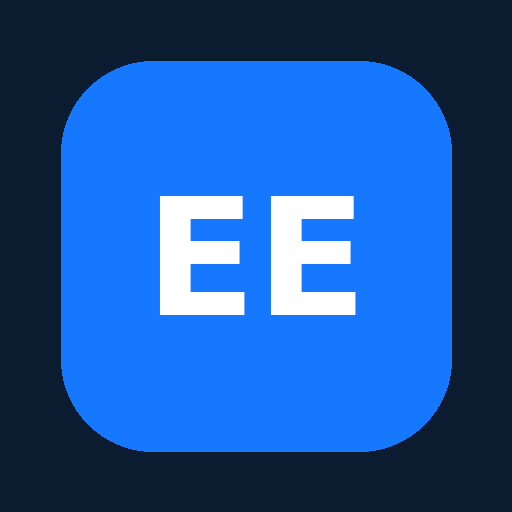
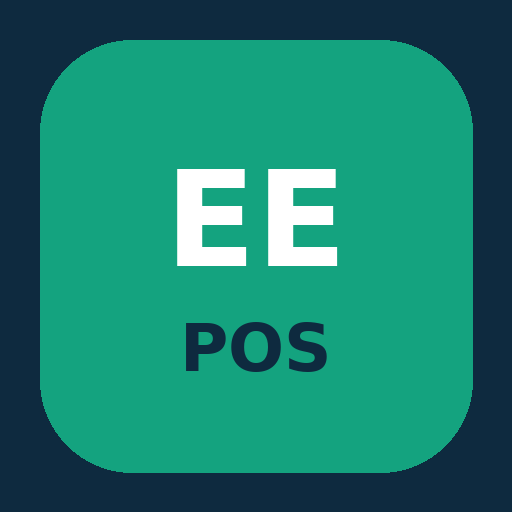
Add files via upload

diff --git a/index.html b/index.html
@@ -1,236 +1,173 @@
 <!DOCTYPE html>
-<html lang="en">
+<html lang="sw">
 <head>
 <meta charset="UTF-8">
-<meta name="viewport" content="width=device-width, initial-scale=1.0">
-<title>E.E.MSANGO COMPANY LIMITED — Business System</title>
+<meta name="viewport" content="width=device-width, initial-scale=1, viewport-fit=cover">
+<title>E.E.MSANGO POS — Mauzo</title>
+<meta name="theme-color" content="#0e2a3f">
 <link rel="manifest" href="manifest.json">
 <link rel="icon" href="icon-192.png">
 <link rel="apple-touch-icon" href="icon-192.png">
-<meta name="theme-color" content="#0b1b30">
 <meta name="apple-mobile-web-app-capable" content="yes">
+<meta name="mobile-web-app-capable" content="yes">
+<meta name="apple-mobile-web-app-title" content="EE POS">
 <meta name="apple-mobile-web-app-status-bar-style" content="black-translucent">
-<meta name="apple-mobile-web-app-title" content="E.E.MSANGO">
-<script src="https://cdn.jsdelivr.net/npm/chart.js"></script>
+<link href="https://fonts.googleapis.com/css2?family=Manrope:wght@500;600;700;800&display=swap" rel="stylesheet">
 <style>
 :root{
-  --ink:#172033; --paper:#f3f6fa; --paper-alt:#eef2f7; --line:#dfe4ec;
-  --green:#08b66c; --rust:#e2632b; --amber:#e8a317; --amber-soft:#fff1d7;
-  --navy:#0b1b30; --blue:#1677ff;
+  --navy:#0e2a3f; --navy2:#16405c; --teal:#14a37f; --teal-d:#0e7f63; --amber:#f0a92e; --red:#d64545;
+  --bg:#eef2f5; --card:#ffffff; --ink:#15212b; --mute:#6c7a86; --line:#dde4ea; --chip:#e5edf2;
+  box-sizing:border-box; padding-top:env(safe-area-inset-top,0px); padding-bottom:env(safe-area-inset-bottom,0px);
 }
-*{margin:0;padding:0;box-sizing:border-box;font-family:'Segoe UI',Arial,Helvetica,sans-serif;}
-body{background:var(--paper);color:var(--ink);}
-button{cursor:pointer;font-family:inherit;}
-input{font-family:inherit;}
-
-/* LOGIN */
-.login-wrap{min-height:100vh;display:flex;align-items:center;justify-content:center;background:var(--navy);padding:20px;}
-.login-card{background:#fff;border-radius:14px;padding:32px 28px;max-width:340px;width:100%;text-align:center;display:flex;flex-direction:column;gap:10px;}
-.login-mark{width:52px;height:52px;display:flex;align-items:center;justify-content:center;margin:0 auto 6px;}
-.login-card h1{font-size:19px;}
-.login-sub{font-size:12.5px;color:#718096;margin-bottom:6px;}
-.login-error{color:#dc2636;font-size:12px;}
-.field{width:100%;padding:9px 11px;border:1px solid var(--line);border-radius:7px;font-size:13.5px;background:#fff;color:var(--ink);}
-.field:focus{outline:2px solid var(--blue);outline-offset:1px;}
-.field-sm{padding:7px 9px;font-size:12.5px;}
-.btn{border:none;border-radius:7px;font-size:13.5px;font-weight:600;padding:9px 14px;display:inline-flex;align-items:center;gap:6px;}
-.btn-primary{background:var(--navy);color:#fff;}
-.btn-primary:hover{background:#14284a;}
-.btn-ghost{background:none;color:#6b7280;}
-.btn-ghost:hover{background:var(--paper-alt);}
-.btn-sm{padding:7px 12px;font-size:12.5px;}
-.btn-block{width:100%;justify-content:center;}
-
-/* SHELL */
-.shell{display:flex;min-height:100vh;}
-.sidebar{width:220px;background:var(--navy);color:#fff;padding:22px 16px;display:flex;flex-direction:column;position:fixed;top:0;left:0;bottom:0;}
-.logo{display:flex;align-items:center;gap:12px;margin-bottom:30px;}
-.logo-mark{width:40px;height:40px;display:flex;align-items:center;justify-content:center;}
-.logo h2{font-size:15px;}
-.logo small{color:#9eabc0;font-size:11px;}
-.menu{list-style:none;flex:1;}
-.menu li{display:flex;align-items:center;gap:10px;padding:12px;margin:4px 0;border-radius:8px;cursor:pointer;color:#d5dce7;font-size:13.5px;position:relative;}
-.menu li:hover,.menu li.active{background:var(--blue);color:#fff;}
-.menu-badge{margin-left:auto;background:#ed3948;color:#fff;font-size:10px;padding:1px 6px;border-radius:20px;}
-.sidebar-bottom{color:#8997ab;font-size:11px;line-height:1.5;}
-.main{flex:1;margin-left:220px;min-width:0;}
-.topbar{height:68px;background:#0d2038;color:#fff;display:flex;align-items:center;justify-content:space-between;padding:0 22px;position:sticky;top:0;z-index:10;}
-.search{display:flex;align-items:center;background:#203650;border-radius:22px;padding:9px 16px;width:300px;color:#b9c5d5;font-size:13px;}
-.search input{background:none;border:none;outline:none;color:#fff;font-size:13px;width:100%;}
-.search input::placeholder{color:#8ea0ba;}
-.profile{display:flex;align-items:center;gap:12px;font-size:12.5px;}
-.bell-wrap{position:relative;background:none;border:none;color:#fff;cursor:pointer;font-size:18px;}
-.bell-dot{position:absolute;top:-6px;right:-8px;background:#ed3948;color:#fff;font-size:9px;padding:1px 5px;border-radius:20px;}
-.avatar{width:34px;height:34px;border-radius:50%;background:#e9eef5;}
-.logout-btn{display:flex;align-items:center;gap:5px;background:rgba(255,255,255,.08);border:1px solid rgba(255,255,255,.15);color:#fff;padding:7px 12px;border-radius:7px;font-size:12px;font-weight:600;margin-left:6px;}
-.logout-btn:hover{background:rgba(255,255,255,.16);}
-.content{padding:22px;}
-.page-header{display:flex;justify-content:space-between;align-items:center;margin-bottom:18px;flex-wrap:wrap;gap:10px;}
-.page-header h1{font-size:24px;}
-.page-header p{color:#718096;margin-top:3px;font-size:13px;}
-.date{background:#fff;padding:9px 14px;border-radius:8px;box-shadow:0 2px 8px #dce2ea;font-size:12.5px;}
-
-/* CARDS */
-.cards{display:grid;grid-template-columns:repeat(6,1fr);gap:14px;}
-@media(max-width:1100px){.cards{grid-template-columns:repeat(3,1fr);}}
-@media(max-width:700px){.cards{grid-template-columns:1fr 1fr;}}
-.stat-card{color:#fff;padding:18px;border-radius:10px;min-height:120px;display:flex;flex-direction:column;justify-content:space-between;}
-.stat-card h4{font-size:12.5px;font-weight:600;opacity:.9;}
-.stat-card h2{font-size:20px;margin:8px 0 4px;}
-.stat-card p{font-size:11px;opacity:.85;}
-.blue{background:var(--blue);} .green{background:var(--green);} .purple{background:#7c45e8;}
-.orange{background:var(--rust);} .red{background:#ed3948;} .cyan{background:#119ebd;}
-
-/* reminders */
-.reminder-bar{background:var(--amber-soft);border:1px solid #f0d599;border-radius:10px;padding:14px 16px;margin:18px 0;}
-.reminder-title{display:flex;align-items:center;gap:7px;font-weight:700;color:#b8862f;font-size:14px;margin-bottom:8px;}
-.reminder-group{display:flex;flex-wrap:wrap;gap:6px;align-items:center;margin-bottom:6px;}
-.reminder-group-label{font-size:12.5px;font-weight:600;margin-right:2px;}
-.reminder-group-label.green{color:var(--green);} .reminder-group-label.rust{color:var(--rust);}
-.reminder-chip{font-size:12px;padding:3px 9px;border-radius:20px;background:#fff;border:1px solid var(--line);}
-.reminder-chip.overdue{border-color:var(--rust);color:var(--rust);}
-.reminder-chip.today{border-color:#b8862f;color:#b8862f;}
-
-/* panels/charts */
-.lower{display:grid;grid-template-columns:1.2fr 1fr;gap:16px;margin-top:16px;}
-@media(max-width:900px){.lower{grid-template-columns:1fr;}}
-.panel{background:#fff;padding:18px;border-radius:10px;box-shadow:0 2px 8px #e1e6ed;}
-.panel h3{font-size:15px;margin-bottom:14px;}
-.chart-container{height:230px;position:relative;}
-.recent-table{width:100%;border-collapse:collapse;}
-.recent-table td{padding:10px 6px;border-top:1px solid #edf0f4;font-size:12.5px;}
-.rt-amount{font-weight:600;text-align:right;} .rt-date{color:#8290a4;font-size:11.5px;text-align:right;}
-.badge{padding:3px 9px;border-radius:15px;font-size:10.5px;font-weight:600;}
-.badge.pending{background:#fff1d7;color:#e28b00;} .badge.paid{background:#dff8e9;color:#0b9c55;}
-
-/* alerts page */
-.alert{display:flex;align-items:center;gap:12px;padding:12px 4px;border-bottom:1px solid #edf0f4;}
-.alert:last-child{border-bottom:none;}
-.alert-icon{width:34px;height:34px;border-radius:50%;display:flex;align-items:center;justify-content:center;background:#edf2f7;color:#65748b;flex-shrink:0;font-size:16px;}
-.alert-icon.overdue{background:#ffe0e3;color:#dc2636;} .alert-icon.today{background:var(--amber-soft);color:#b8862f;}
-.alert-body{flex:1;min-width:0;} .alert-body strong{font-size:13px;display:block;}
-.alert-body small{display:block;color:#8290a4;margin-top:3px;}
-.alert-dir{flex-shrink:0;font-size:18px;} .alert-dir.green{color:var(--green);} .alert-dir.rust{color:var(--rust);}
-
-.rank-row{display:flex;justify-content:space-between;padding:9px 4px;border-bottom:1px solid #edf0f4;font-size:13px;}
-.rank-row:last-child{border-bottom:none;}
-.rank-amt{font-weight:700;} .rank-amt.green{color:var(--green);} .rank-amt.rust{color:var(--rust);}
-
-/* users */
-.user-list{display:flex;flex-direction:column;gap:8px;}
-.user-row{display:flex;justify-content:space-between;align-items:center;padding:10px 12px;background:var(--paper-alt);border-radius:8px;}
-.user-row-main{display:flex;flex-direction:column;gap:2px;}
-.user-name{font-size:13.5px;font-weight:600;} .user-detail{font-size:11.5px;color:#8290a4;}
-.settings-panel{max-width:380px;display:flex;flex-direction:column;gap:10px;}
-.settings-msg{font-size:12.5px;} .settings-msg.ok{color:#0b9c55;} .settings-msg.err{color:#dc2636;}
-
-/* ledger columns */
-.columns{display:grid;grid-template-columns:1fr 1fr;gap:18px;}
-.columns.single{grid-template-columns:1fr;max-width:none;width:100%;}
-/* Debtors / Creditors: cards fill the whole screen like the Sales page */
-.card-grid{display:grid;grid-template-columns:repeat(auto-fill,minmax(300px,1fr));gap:10px;align-items:start;}
-.card-grid .card.expanded{grid-column:1/-1;}
-@media(max-width:680px){.card-grid{grid-template-columns:1fr;}}
-@media(max-width:680px){.columns{grid-template-columns:1fr;}}
-.column{background:#fff;border:1px solid var(--line);border-radius:12px;padding:18px;display:flex;flex-direction:column;}
-.column-header{display:flex;justify-content:space-between;align-items:flex-start;padding-bottom:14px;margin-bottom:14px;border-bottom:2px solid var(--line);}
-.column.green .column-header{border-bottom-color:var(--green);} .column.rust .column-header{border-bottom-color:var(--rust);}
-.column-header h2{font-size:17px;font-weight:700;} .column-sub{font-size:12.5px;color:#8290a4;margin-top:2px;}
-.column-total{text-align:right;} .column-total-label{display:block;font-size:11px;color:#8290a4;}
-.column-total-val{display:block;font-size:16px;font-weight:700;}
-.column.green .column-total-val{color:var(--green);} .column.rust .column-total-val{color:var(--rust);}
-.column-list{display:flex;flex-direction:column;gap:10px;min-height:40px;}
-.empty-note{color:#a3aebe;font-size:13px;text-align:center;padding:20px 0;}
-
-.card{border:1px solid var(--line);border-radius:10px;overflow:hidden;background:var(--paper);}
-.card.cleared{opacity:.6;}
-.card-head{width:100%;display:flex;justify-content:space-between;align-items:center;padding:11px 14px;background:none;border:none;text-align:left;color:inherit;}
-.card-head-main{display:flex;flex-direction:column;gap:3px;}
-.card-name{font-weight:600;font-size:14px;}
-.card-meta-row{display:flex;gap:8px;flex-wrap:wrap;align-items:center;}
-.card-phone{font-size:12px;color:#8290a4;}
-.due-badge{font-size:11px;padding:2px 7px;border-radius:20px;border:1px solid var(--line);}
-.due-badge.today{color:#b8862f;border-color:#b8862f;} .due-badge.overdue{color:var(--rust);border-color:var(--rust);}
-.card-head-right{display:flex;align-items:center;gap:8px;}
-.card-balance{font-weight:700;font-size:14px;}
-.card.green .card-balance{color:var(--green);} .card.rust .card-balance{color:var(--rust);}
-.card.cleared .card-balance{color:#8290a4;font-weight:600;font-size:12.5px;}
-.card-body{padding:0 14px 14px;border-top:1px solid var(--line);}
-.card-note{font-size:12.5px;color:#6b7280;margin-top:10px;font-style:italic;}
-.items-summary{margin:10px 0 6px;border:1px solid var(--line);border-radius:8px;overflow:hidden;}
-.items-summary-row{display:flex;justify-content:space-between;gap:8px;padding:6px 10px;font-size:12.5px;border-bottom:1px solid var(--line);background:#fff;}
-.items-summary-row:last-child{border-bottom:none;}
-.isr-detail{color:#8290a4;} .isr-total{font-weight:600;}
-.receipt-link-btn{display:flex;align-items:center;gap:5px;background:none;border:none;color:var(--green);font-size:12px;font-weight:600;padding:2px 0 8px;}
-.card-stats{display:flex;gap:16px;margin:12px 0;flex-wrap:wrap;}
-.stat-label{display:block;font-size:10.5px;color:#8290a4;} .stat-val{display:block;font-size:13.5px;font-weight:600;}
-.stat-val.strong{color:var(--rust);}
-.payment-history{display:flex;flex-direction:column;gap:4px;margin:10px 0;padding:8px 10px;background:var(--paper-alt);border-radius:6px;}
-.payment-row{display:flex;align-items:center;gap:6px;font-size:12px;color:#6b7280;}
-.payment-amt{margin-left:auto;color:var(--green);font-weight:600;}
-.pay-row{display:flex;gap:8px;margin-top:10px;}
-.archive-btn{display:flex;align-items:center;justify-content:center;gap:6px;width:100%;margin-top:10px;padding:8px;border:1px solid var(--line);border-radius:7px;background:var(--paper-alt);color:#6b7280;font-size:12.5px;font-weight:600;}
-.archive-btn:hover{background:#e5e9ef;color:var(--ink);}
-.history-toggle{margin-top:10px;display:flex;align-items:center;justify-content:center;gap:6px;background:none;border:none;color:#8290a4;font-size:12px;font-weight:600;padding:6px;width:100%;}
-.history-toggle:hover{color:var(--ink);}
-.history-list{display:flex;flex-direction:column;gap:6px;margin-top:6px;padding-top:8px;border-top:1px dashed var(--line);}
-.history-row{display:flex;justify-content:space-between;align-items:center;padding:7px 10px;background:var(--paper-alt);border-radius:7px;}
-.history-name{font-size:12.5px;font-weight:600;} .history-detail{font-size:11px;color:#8290a4;}
-.icon-btn{background:none;border:none;color:var(--rust);padding:8px;font-size:16px;min-width:32px;min-height:32px;display:inline-flex;align-items:center;justify-content:center;cursor:pointer;}
-.icon-btn.restore{color:var(--green);}
-.add-btn{margin-top:14px;display:flex;align-items:center;justify-content:center;gap:6px;padding:10px;border:1px dashed var(--line);border-radius:8px;background:none;color:#6b7280;font-size:13.5px;font-weight:600;width:100%;}
-.add-btn:hover{background:var(--paper-alt);color:var(--ink);}
-
-/* entry form */
-.entry-form{display:flex;flex-direction:column;gap:8px;padding:12px;border:1px dashed var(--line);border-radius:10px;background:#fff;}
-.mode-toggle{display:flex;gap:6px;margin-bottom:4px;}
-.mode-btn{flex:1;padding:7px;border-radius:7px;border:1px solid var(--line);background:var(--paper-alt);color:#6b7280;font-size:12.5px;font-weight:600;}
-.mode-btn.active{background:var(--navy);color:#fff;border-color:var(--navy);}
-.items-block{border:1px solid var(--line);border-radius:8px;padding:10px;background:var(--paper-alt);display:flex;flex-direction:column;gap:6px;}
-.discount-mode-toggle{display:flex;align-items:center;gap:6px;font-size:11.5px;color:#6b7280;margin-bottom:2px;}
-.chip-btn{padding:3px 9px;border-radius:20px;border:1px solid var(--line);background:#fff;font-size:11px;font-weight:600;color:#6b7280;}
-.chip-btn.active{background:var(--navy);color:#fff;border-color:var(--navy);}
-.item-row{display:grid;grid-template-columns:1.4fr .8fr .9fr .6fr .9fr auto;gap:6px;align-items:center;}
-.item-row-head{font-size:10.5px;color:#8290a4;padding:0 2px;}
-.item-line-total{font-size:12.5px;font-weight:600;text-align:right;}
-.add-row-btn{display:flex;align-items:center;gap:5px;align-self:flex-start;background:none;border:none;color:var(--green);font-size:12.5px;font-weight:600;padding:4px 0;}
-.grand-total-row{display:flex;justify-content:space-between;padding-top:6px;border-top:1px solid var(--line);font-size:13px;font-weight:700;}
-.due-label{display:flex;align-items:center;gap:6px;font-size:12px;color:#6b7280;margin-top:2px;}
-.form-actions{display:flex;justify-content:flex-end;gap:8px;margin-top:4px;}
-
-.err-banner{display:flex;justify-content:space-between;align-items:center;background:#ffe0e3;color:#dc2636;padding:10px 14px;border-radius:8px;margin-bottom:16px;font-size:13px;}
-.err-banner button{background:none;border:none;color:inherit;}
-
-/* receipt modal */
-.modal-overlay{position:fixed;inset:0;background:rgba(11,27,48,.55);display:flex;align-items:center;justify-content:center;z-index:100;padding:20px;}
-.modal-stack{display:flex;flex-direction:column;gap:10px;max-width:460px;width:100%;}
-.receipt-print{background:#fff;border-radius:10px;padding:24px;max-height:70vh;overflow:auto;}
-.receipt-title{font-size:20px;margin-bottom:12px;}
-.receipt-meta{font-size:12.5px;color:#6b7280;margin-bottom:14px;display:flex;flex-direction:column;gap:3px;}
-.receipt-table{width:100%;border-collapse:collapse;font-size:12.5px;}
-.receipt-table th{text-align:left;font-size:10.5px;color:#8290a4;font-weight:600;padding:5px 6px;border-bottom:1px solid var(--line);}
-.receipt-table td{padding:6px;border-bottom:1px solid var(--line);}
-.receipt-total-row{display:flex;justify-content:space-between;font-weight:700;font-size:14px;padding-top:10px;margin-top:4px;}
-.modal-actions{display:flex;justify-content:center;gap:8px;}
+*,*::before,*::after{box-sizing:inherit}
+html,body{height:100%;margin:0}
+body{background:var(--bg);color:var(--ink);font-family:'Manrope',system-ui,-apple-system,'Segoe UI',sans-serif;font-size:14px;-webkit-tap-highlight-color:transparent}
+button{font-family:inherit;cursor:pointer}
+button:disabled{cursor:not-allowed;opacity:.5}
+button:focus-visible,input:focus-visible,select:focus-visible{outline:3px solid var(--amber);outline-offset:2px}
+/* login */
+.login{min-height:100%;display:flex;align-items:center;justify-content:center;padding:20px}
+.login-card{background:var(--card);border-radius:16px;padding:26px;width:100%;max-width:400px;box-shadow:0 10px 30px rgba(0,0,0,.08)}
+.logo{display:flex;align-items:center;gap:10px;font-weight:800;font-size:19px;margin-bottom:6px}
+.logo .mk{background:var(--teal);color:#fff;width:38px;height:38px;border-radius:10px;display:grid;place-items:center;font-size:19px;flex:none;overflow:hidden}
+.logo .mk img,.logo .mk svg{width:100%;height:100%;object-fit:contain}
+.users{display:grid;gap:8px;margin:16px 0;max-height:42vh;overflow:auto}
+.user-btn{display:flex;justify-content:space-between;align-items:center;padding:12px 14px;border:2px solid var(--line);background:transparent;color:var(--ink);border-radius:10px;font-size:14px;font-weight:600;text-align:left}
+.user-btn.on{border-color:var(--teal);background:rgba(20,163,127,.08)}
+.user-btn small{color:var(--mute);font-weight:500}
+.field{width:100%;padding:11px 12px;border:1px solid var(--line);border-radius:9px;background:var(--card);color:var(--ink);font:inherit;font-size:15px}
+.field.sm{padding:7px 9px;font-size:13px}
+label.l{display:block;font-size:12px;font-weight:700;color:var(--mute);margin:10px 0 4px}
+.btn{border:0;border-radius:9px;padding:11px 16px;font-weight:700;font-size:14px;display:inline-flex;align-items:center;justify-content:center;gap:6px}
+.btn.sm{padding:6px 10px;font-size:12.5px}
+.btn-p{background:var(--teal);color:#fff}.btn-p:hover{background:var(--teal-d)}
+.btn-g{background:var(--chip);color:var(--ink)}
+.btn-r{background:var(--red);color:#fff}
+.btn-a{background:var(--amber);color:#2a1b00}
+.hint{font-size:12px;color:var(--mute);margin-top:10px;line-height:1.5}
+.err{color:var(--red);font-size:12.5px;margin-top:8px}
+.ok{color:var(--teal);font-size:12.5px;margin-top:8px}
+/* app shell */
+.top{background:var(--navy);color:#fff;display:flex;align-items:center;justify-content:space-between;padding:10px 14px;gap:10px;position:sticky;top:0;z-index:5}
+.top .logo{font-size:15px;margin:0;min-width:0}.top .logo .mk{width:32px;height:32px;font-size:16px;background:#fff}
+.top .logo .t{white-space:nowrap;overflow:hidden;text-overflow:ellipsis}
+.who{font-size:12.5px;display:flex;align-items:center;gap:6px;flex:none}
+.who b{background:var(--navy2);padding:5px 10px;border-radius:20px;white-space:nowrap}
+.who button{background:transparent;color:#cfe0ea;border:1px solid #3d6680;border-radius:8px;padding:5px 9px;font-size:12px;white-space:nowrap}
+.sync{font-size:11.5px;color:#cfe0ea;white-space:nowrap}
+.tabs{display:flex;gap:4px;background:var(--navy2);padding:6px;overflow-x:auto;position:sticky;top:52px;z-index:4}
+.tab{background:transparent;color:#cfe0ea;border:0;padding:8px 13px;border-radius:8px;font-weight:700;font-size:13px;white-space:nowrap}
+.tab.on{background:#fff;color:var(--navy)}
+main{padding:14px;max-width:1400px;margin:0 auto}
+.banner{background:rgba(214,69,69,.1);border:1px solid rgba(214,69,69,.35);color:var(--ink);border-radius:10px;padding:10px 12px;margin-bottom:12px;font-size:13px}
+.banner pre{background:#fff;color:#111;padding:8px;border-radius:6px;overflow-x:auto;font-size:11px}
+/* POS */
+.pos{display:grid;grid-template-columns:1fr 400px;gap:14px;align-items:start}
+@media(max-width:900px){.pos{grid-template-columns:1fr}}
+.panel{background:var(--card);border-radius:14px;padding:14px;border:1px solid var(--line)}
+.panel+.panel{margin-top:14px}
+.mode{display:flex;background:var(--chip);border-radius:10px;padding:4px;margin-bottom:10px;gap:4px}
+.mode button{flex:1;border:0;background:transparent;color:var(--ink);padding:9px;border-radius:8px;font-weight:800}
+.mode button.on{background:var(--navy);color:#fff}
+.mode button.on.whole{background:var(--amber);color:#2a1b00}
+.chips{display:flex;gap:6px;overflow-x:auto;margin:10px 0;padding-bottom:2px}
+.chip{border:0;background:var(--chip);color:var(--ink);padding:7px 12px;border-radius:20px;font-weight:600;font-size:12.5px;white-space:nowrap}
+.chip.on{background:var(--teal);color:#fff}
+.grid{display:grid;grid-template-columns:repeat(auto-fill,minmax(150px,1fr));gap:8px;max-height:64vh;overflow:auto;padding:2px}
+.prod{background:var(--bg);border:1px solid var(--line);border-radius:11px;padding:10px;text-align:left;color:var(--ink);display:flex;flex-direction:column;gap:3px;min-height:92px}
+.prod:hover:not(:disabled){border-color:var(--teal)}
+.prod .nm{font-weight:700;font-size:12.5px;line-height:1.25}
+.prod .ct{font-size:10.5px;color:var(--mute)}
+.prod .pr{font-weight:800;color:var(--teal);margin-top:auto}
+.prod .st{font-size:11px;color:var(--mute)}
+.prod .st.low{color:var(--red);font-weight:700}
+.cart-head{display:flex;justify-content:space-between;align-items:center;margin-bottom:8px;gap:8px}
+.cart-list{max-height:36vh;overflow:auto;display:flex;flex-direction:column;gap:6px}
+.line{display:grid;grid-template-columns:1fr auto;gap:6px 8px;align-items:center;padding:8px;border-radius:9px;background:var(--bg)}
+.line .n{font-weight:700;font-size:12.5px}
+.line .s{font-size:11.5px;color:var(--mute);display:flex;align-items:center;gap:6px;flex-wrap:wrap}
+.line .s input{width:96px}
+.line .chgd{color:var(--amber);font-weight:700}
+.qty{display:flex;align-items:center;gap:4px}
+.qty button{width:30px;height:30px;border:0;border-radius:7px;background:var(--chip);color:var(--ink);font-weight:800}
+.qty input{width:44px;text-align:center;padding:5px 2px}
+.tot{font-weight:800;text-align:right}
+.sum{border-top:2px dashed var(--line);margin-top:10px;padding-top:10px;display:grid;gap:8px}
+.big{display:flex;justify-content:space-between;font-size:21px;font-weight:800}
+.row{display:flex;justify-content:space-between;align-items:center;gap:8px}
+.two{display:grid;grid-template-columns:1fr 1fr;gap:8px}
+.pay{display:flex;gap:6px}
+.pay button{flex:1;border:2px solid var(--line);background:transparent;color:var(--ink);padding:8px 4px;border-radius:9px;font-weight:700;font-size:12.5px}
+.pay button.on{border-color:var(--teal);background:rgba(20,163,127,.1)}
+.change{font-size:17px;font-weight:800;color:var(--teal)}
+.change.neg{color:var(--red)}
+.empty{color:var(--mute);text-align:center;padding:24px 8px;font-size:13px}
+.cart-fab{position:fixed;right:14px;bottom:calc(14px + env(safe-area-inset-bottom,0px));background:var(--navy);color:#fff;border:0;border-radius:30px;padding:12px 16px;font-weight:800;box-shadow:0 8px 20px rgba(0,0,0,.25);z-index:6;display:none}
+@media(max-width:900px){.cart-fab{display:block}}
+/* tables */
+.tbl-wrap{overflow-x:auto}
+table{width:100%;border-collapse:collapse;font-size:13px}
+th{text-align:left;font-size:11px;color:var(--mute);text-transform:uppercase;letter-spacing:.04em;padding:8px 6px;border-bottom:1px solid var(--line);white-space:nowrap}
+td{padding:9px 6px;border-bottom:1px solid var(--line);vertical-align:middle}
+td.r,th.r{text-align:right}
+.badge{font-size:11px;font-weight:800;padding:2px 8px;border-radius:20px;background:rgba(214,69,69,.12);color:var(--red);white-space:nowrap}
+.badge.ok{background:rgba(20,163,127,.12);color:var(--teal)}
+.badge.am{background:rgba(240,169,46,.2);color:#9a6400}
+.stats{display:grid;grid-template-columns:repeat(auto-fit,minmax(170px,1fr));gap:10px;margin-bottom:14px}
+.stat{background:var(--card);border:1px solid var(--line);border-radius:12px;padding:14px}
+.stat .l{font-size:12px;color:var(--mute);font-weight:600}
+.stat .v{font-size:21px;font-weight:800;margin-top:4px}
+.stat.g .v{color:var(--teal)}.stat.r .v{color:var(--red)}
+.note{display:flex;align-items:center;gap:8px;background:rgba(240,169,46,.15);border-radius:10px;padding:10px 12px;font-size:12.5px;margin-bottom:12px}
+.note.red{background:rgba(214,69,69,.1)}
+h2{font-size:17px;margin:0 0 12px}
+h3{font-size:14.5px;margin:0 0 10px}
+.filters{display:flex;gap:6px;flex-wrap:wrap;align-items:center;margin-bottom:12px}
+.sale{border:1px solid var(--line);border-radius:10px;margin-bottom:8px;overflow:hidden}
+.sale-h{display:flex;justify-content:space-between;align-items:center;gap:8px;padding:10px 12px;background:var(--bg);cursor:pointer;flex-wrap:wrap}
+.sale-h .m{font-size:11.5px;color:var(--mute)}
+.sale-b{padding:10px 12px}
+.day{font-size:12px;font-weight:800;color:var(--mute);margin:14px 0 6px;text-transform:uppercase;letter-spacing:.04em}
+.split{display:grid;grid-template-columns:1fr 1fr;gap:14px}
+@media(max-width:800px){.split{grid-template-columns:1fr}}
+/* modal / receipt */
+.ov{position:fixed;inset:0;background:rgba(8,20,30,.55);display:flex;align-items:center;justify-content:center;padding:16px;z-index:20}
+.modal{background:var(--card);border-radius:14px;padding:18px;width:100%;max-width:440px;max-height:88vh;overflow:auto}
+.rcpt{background:#fff;color:#111;width:100%;max-width:340px;border-radius:12px;padding:18px;font-family:ui-monospace,Menlo,Consolas,monospace;font-size:12.5px;max-height:78vh;overflow:auto}
+.rcpt.wide{max-width:760px;font-family:'Manrope',sans-serif}
+.rcpt h3{text-align:center;margin:4px 0 0;font-family:'Manrope',sans-serif;font-size:15px}
+.rcpt .c{text-align:center;color:#444;font-size:11.5px}
+.rcpt .dl{border-top:1px dashed #999;margin:8px 0}
+.rcpt .rr{display:flex;justify-content:space-between;gap:8px}
+.rcpt .lg{display:flex;justify-content:center}
+.rcpt .lg img,.rcpt .lg svg{width:54px;height:54px;object-fit:contain}
+.rcpt table td,.rcpt table th{padding:5px 4px;color:#111;border-color:#ddd}
+.ov-actions{display:flex;gap:8px;margin-top:12px}
+.ov-actions .btn{flex:1}
 @media print{
-  body *{visibility:hidden;}
-  .receipt-print,.receipt-print *{visibility:visible;}
-  .receipt-print{position:absolute;top:0;left:0;width:100%;max-height:none;box-shadow:none;}
-  .no-print{display:none!important;}
+  body *{visibility:hidden}
+  .print-area,.print-area *{visibility:visible}
+  .print-area{position:absolute;top:0;left:0;width:100%;max-width:none!important;max-height:none!important;overflow:visible!important;box-shadow:none;border-radius:0}
+  .no-print{display:none!important}
 }
-@media(max-width:800px){
-  .sidebar{width:70px;}
-  .sidebar .logo h2,.sidebar .logo small,.menu li span,.sidebar-bottom{display:none;}
-  .main{margin-left:70px;}
-  .search{width:150px;}
-}
+.toast{position:fixed;bottom:calc(76px + env(safe-area-inset-bottom,0px));left:50%;transform:translateX(-50%);background:var(--navy);color:#fff;padding:10px 16px;border-radius:10px;font-weight:700;font-size:13px;z-index:30;max-width:90vw;text-align:center}
+.loading{min-height:100%;display:flex;flex-direction:column;align-items:center;justify-content:center;gap:10px;color:var(--mute)}
+.spin{width:34px;height:34px;border:4px solid var(--line);border-top-color:var(--teal);border-radius:50%;animation:sp 1s linear infinite}
+@keyframes sp{to{transform:rotate(360deg)}}
+.act{font-size:12.5px;padding:7px 0;border-bottom:1px solid var(--line);display:flex;gap:10px}
+.act .tm{color:var(--mute);white-space:nowrap;font-size:11.5px;min-width:120px}
+.switch{display:flex;align-items:center;gap:8px;font-size:13px;font-weight:600}
+.switch input{width:18px;height:18px}
 </style>
 </head>
 <body>
-<div id="app"></div>
+<div id="app"><div class="loading"><div class="spin"></div>Inapakia...</div></div>
 <script src="https://www.gstatic.com/firebasejs/9.23.0/firebase-app-compat.js"></script>
 <script src="https://www.gstatic.com/firebasejs/9.23.0/firebase-firestore-compat.js"></script>
 <script src="https://www.gstatic.com/firebasejs/9.23.0/firebase-auth-compat.js"></script>
-<script src="app.js?v=38"></script>
+<script src="pos.js?v=1"></script>
+<script>
+if ("serviceWorker" in navigator) navigator.serviceWorker.register("sw.js").catch(() => {});
+</script>
 </body>
 </html>
